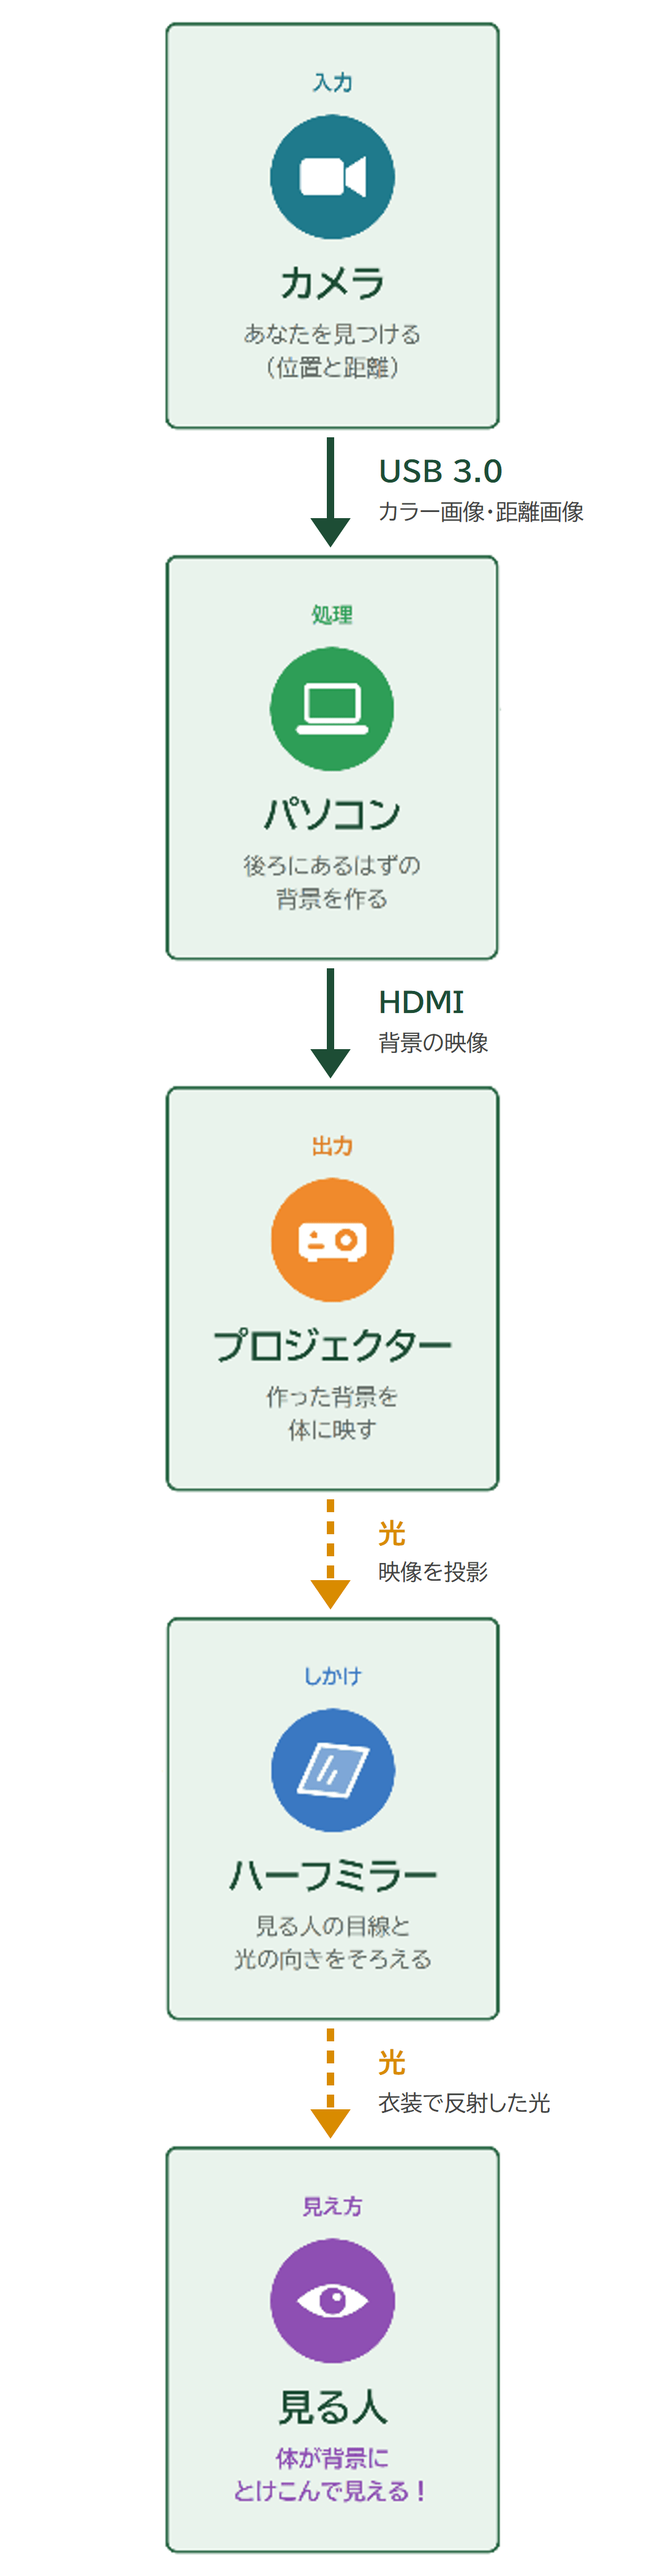
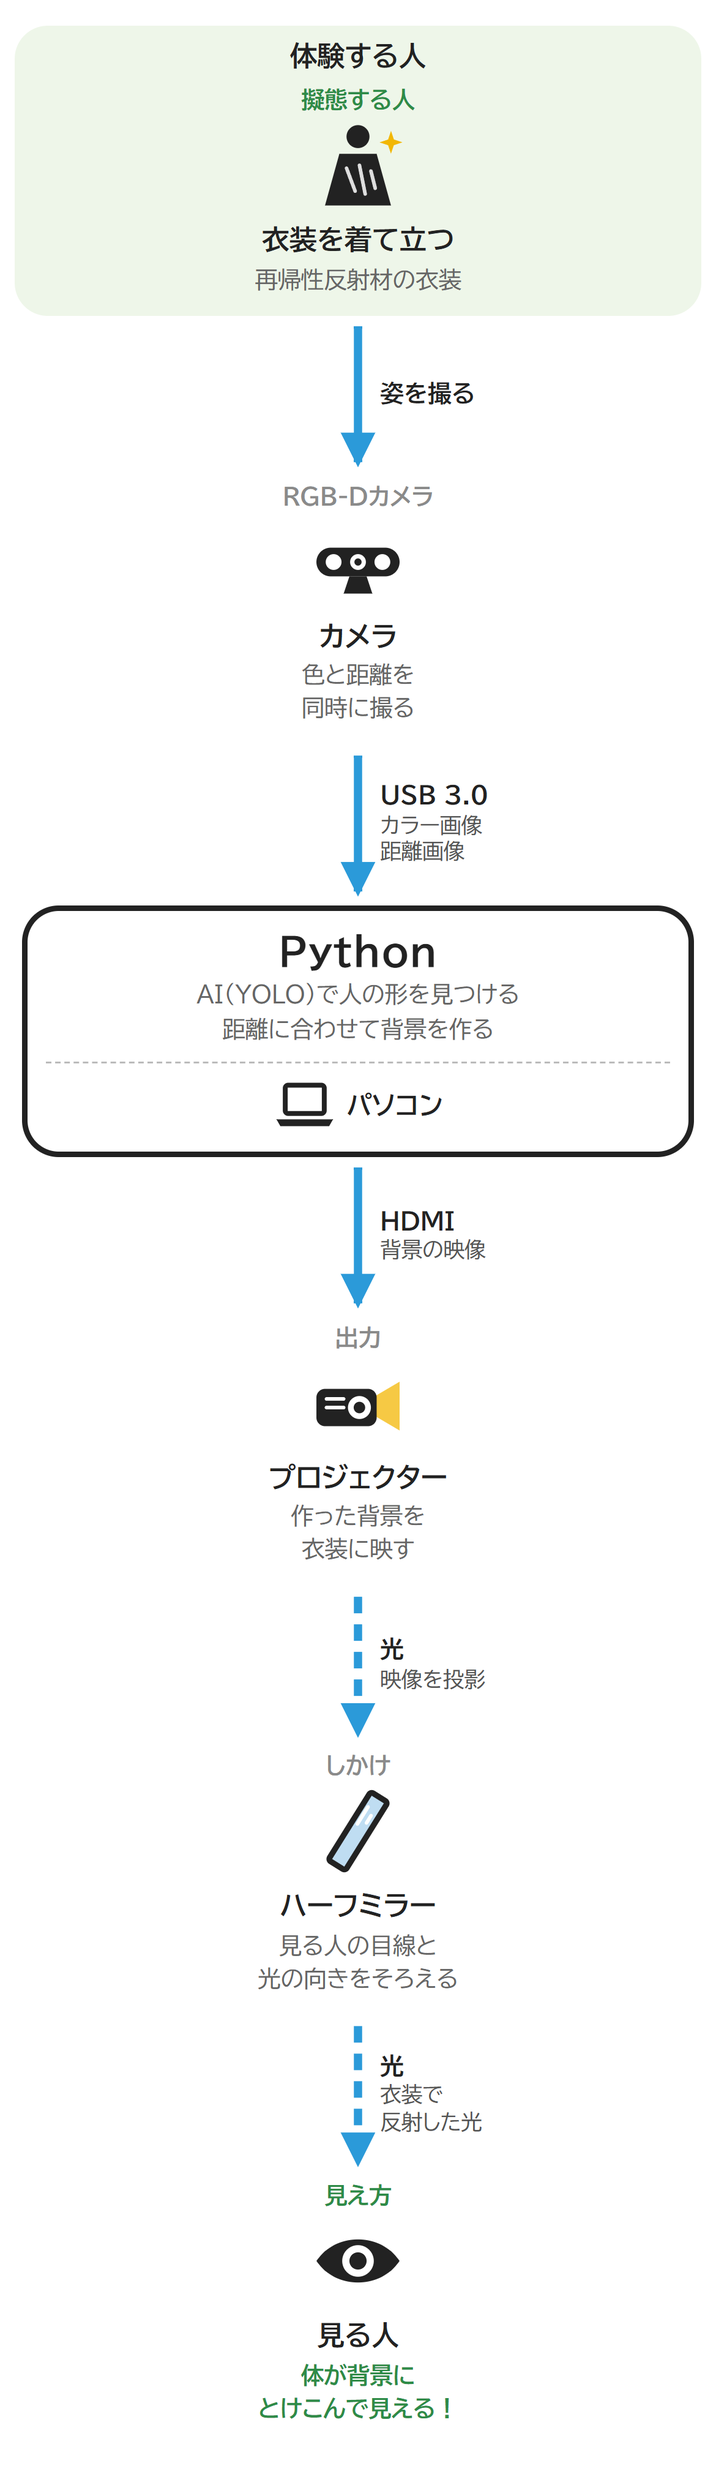
全チームのシステム図を絵記号入りの見やすい図に統一（スマホは縦長の図）

diff --git a/data.js b/data.js
@@ -167,8 +167,8 @@ const TEAMS = [
         "{再帰性|さいきせい}反射材の衣装（光が来た方向に光を返す）",
         "プログラム：Python（OpenCV・YOLO11x-seg）"
       ],
-      "figure": "images/team1-system.png?v=930e996d",
-      "figurePhone": "images/team1-system-phone.png?v=0a36953d",
+      "figure": "images/team1-system.png?v=07a5a2d9",
+      "figurePhone": "images/team1-system-phone.png?v=e34e247d",
       "figureCaption": "システム図：カメラ（入力）→ パソコン（処理）→ プロジェクター・ハーフミラー（出力）"
     },
     "glossary": [
@@ -245,7 +245,8 @@ const TEAMS = [
         "Unity（ゲームエンジン）",
         "プログラム：C++（ESP32）、C#（Unity）"
       ],
-      "figure": "images/team2-system.svg?v=6a142c8b",
+      "figure": "images/team2-system.png?v=66079caa",
+      "figurePhone": "images/team2-system-phone.png?v=75cf8127",
       "figureCaption": "システム図：的の{圧電|あつでん}センサ（入力）→ ESP32・パソコン（処理）→ プロジェクター（出力）"
     },
     "glossary": [
@@ -327,7 +328,8 @@ const TEAMS = [
         "{Godot|ゴドー}（ゲームエンジン）",
         "プログラム：GDScript（Godot）、Arduino IDE（マイコン）"
       ],
-      "figure": "images/team3-system.svg?v=3810c37f",
+      "figure": "images/team3-system.png?v=c13f5f32",
+      "figurePhone": "images/team3-system-phone.png?v=c6043409",
       "figureCaption": "システム図：ハンドル・ペダル・{弾倉|だんそう}のセンサ（入力）→ マイコン・パソコン（処理）→ プロジェクター・効果音（出力）"
     },
     "glossary": [
@@ -448,6 +450,7 @@ const TEAMS = [
         "プログラム：Arduino IDE（マイコン）、HTML / JavaScript（スマホのwebアプリ）"
       ],
       "figure": "images/team4-system.png?v=722a7aaa",
+      "figurePhone": "images/team4-system-phone.png?v=82a65331",
       "figureCaption": "システム図：圧力マット・スマホ（入力）→ ESP32・Cloudflare・パソコン（処理）→ ゲーム画面（出力）"
     },
     "glossary": [
@@ -526,7 +529,8 @@ const TEAMS = [
         "Unity（ゲームエンジン）",
         "プログラム：C++（ESP32）、C#（Unity）"
       ],
-      "figure": "images/team5-system.png?v=020c2267",
+      "figure": "images/team5-system.png?v=e7f63a9e",
+      "figurePhone": "images/team5-system-phone.png?v=72534c19",
       "figureCaption": "システム図：バランスボードの傾き（入力）→ ESP32・パソコン（処理）→ モニター・スピーカー（出力）"
     },
     "glossary": [
@@ -599,7 +603,8 @@ const TEAMS = [
         "Unreal Engine 5（ゲームエンジン）",
         "プログラム：Python（OpenCV・MediaPipe）"
       ],
-      "figure": "images/team6-system.png?v=6c322ec6",
+      "figure": "images/team6-system.png?v=7f4da62b",
+      "figurePhone": "images/team6-system-phone.png?v=9eaa6c09",
       "figureCaption": "システム図：Webカメラ＋手の動き・タブレット（入力）→ パソコン（処理）→ プロジェクター・スピーカー（出力）"
     },
     "glossary": [

diff --git a/index.html b/index.html
@@ -19,7 +19,7 @@
 </head>
 <body>
 <div id="app"></div>
-<script src="data.js?v=1e218dcd"></script>
+<script src="data.js?v=c73a8b1d"></script>
 <script src="map.js?v=741b1af8"></script>
 <script src="app.js?v=23ae59a5"></script>
 </body>
